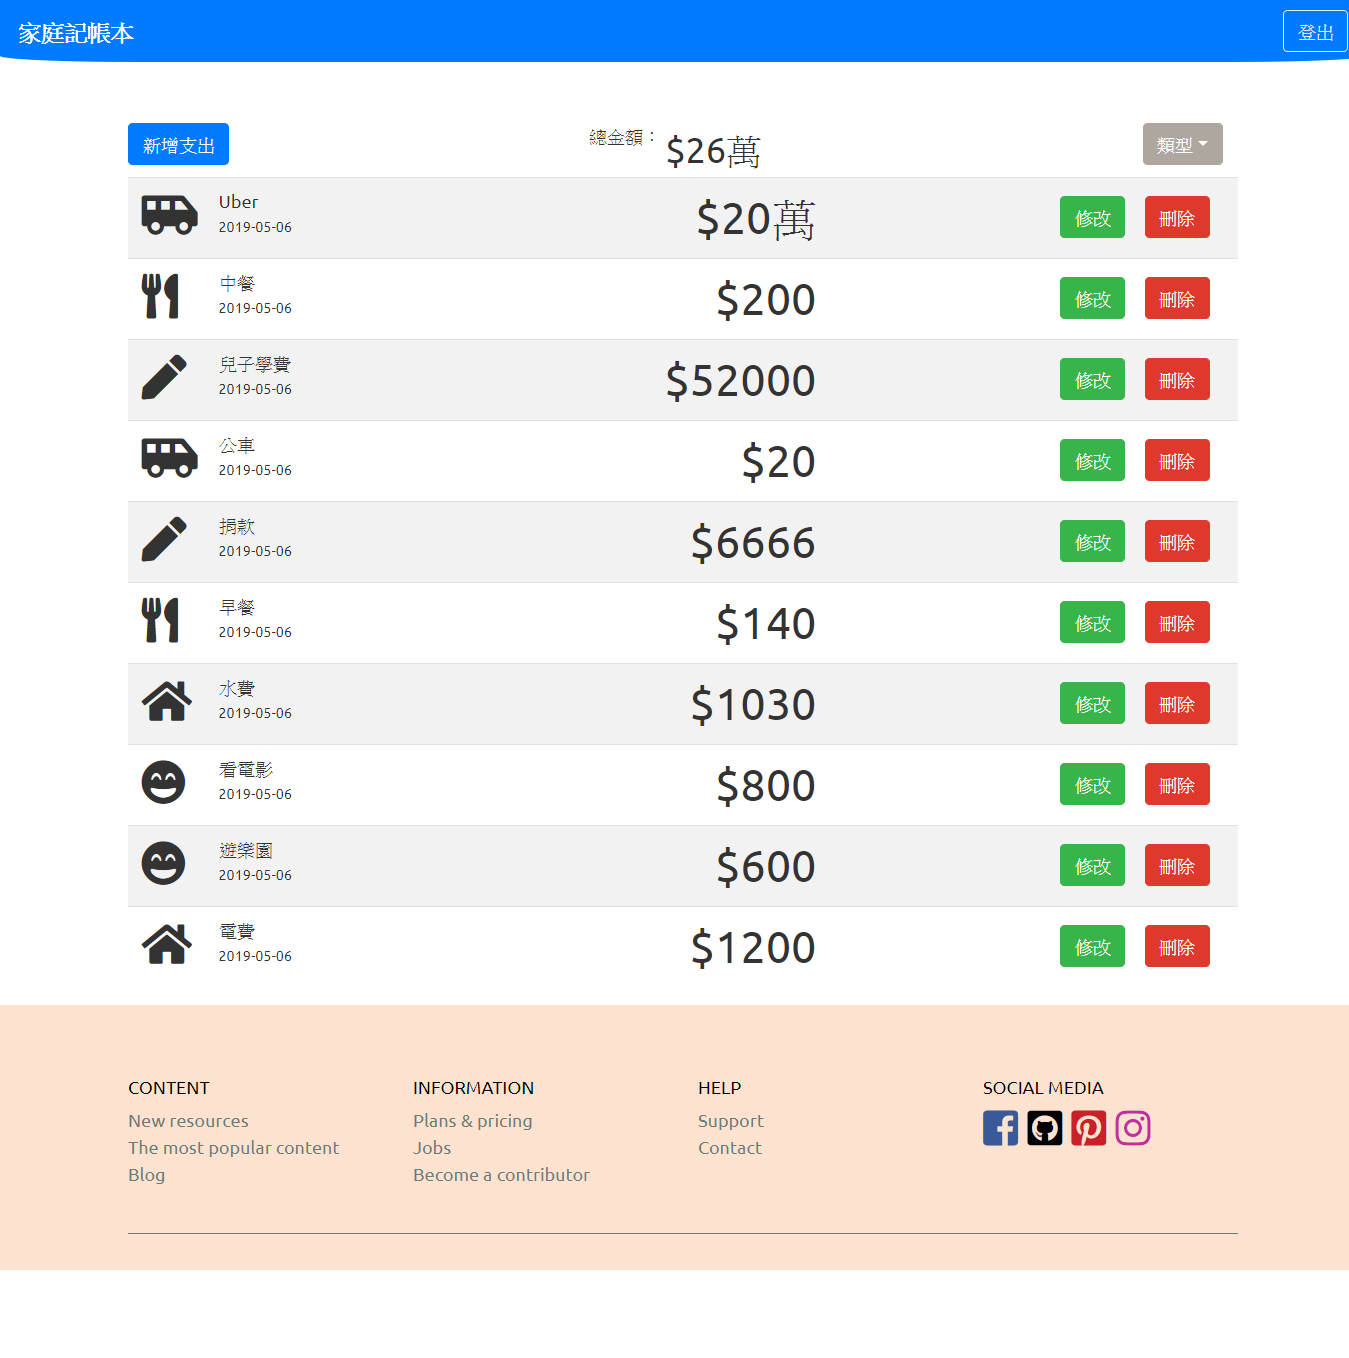
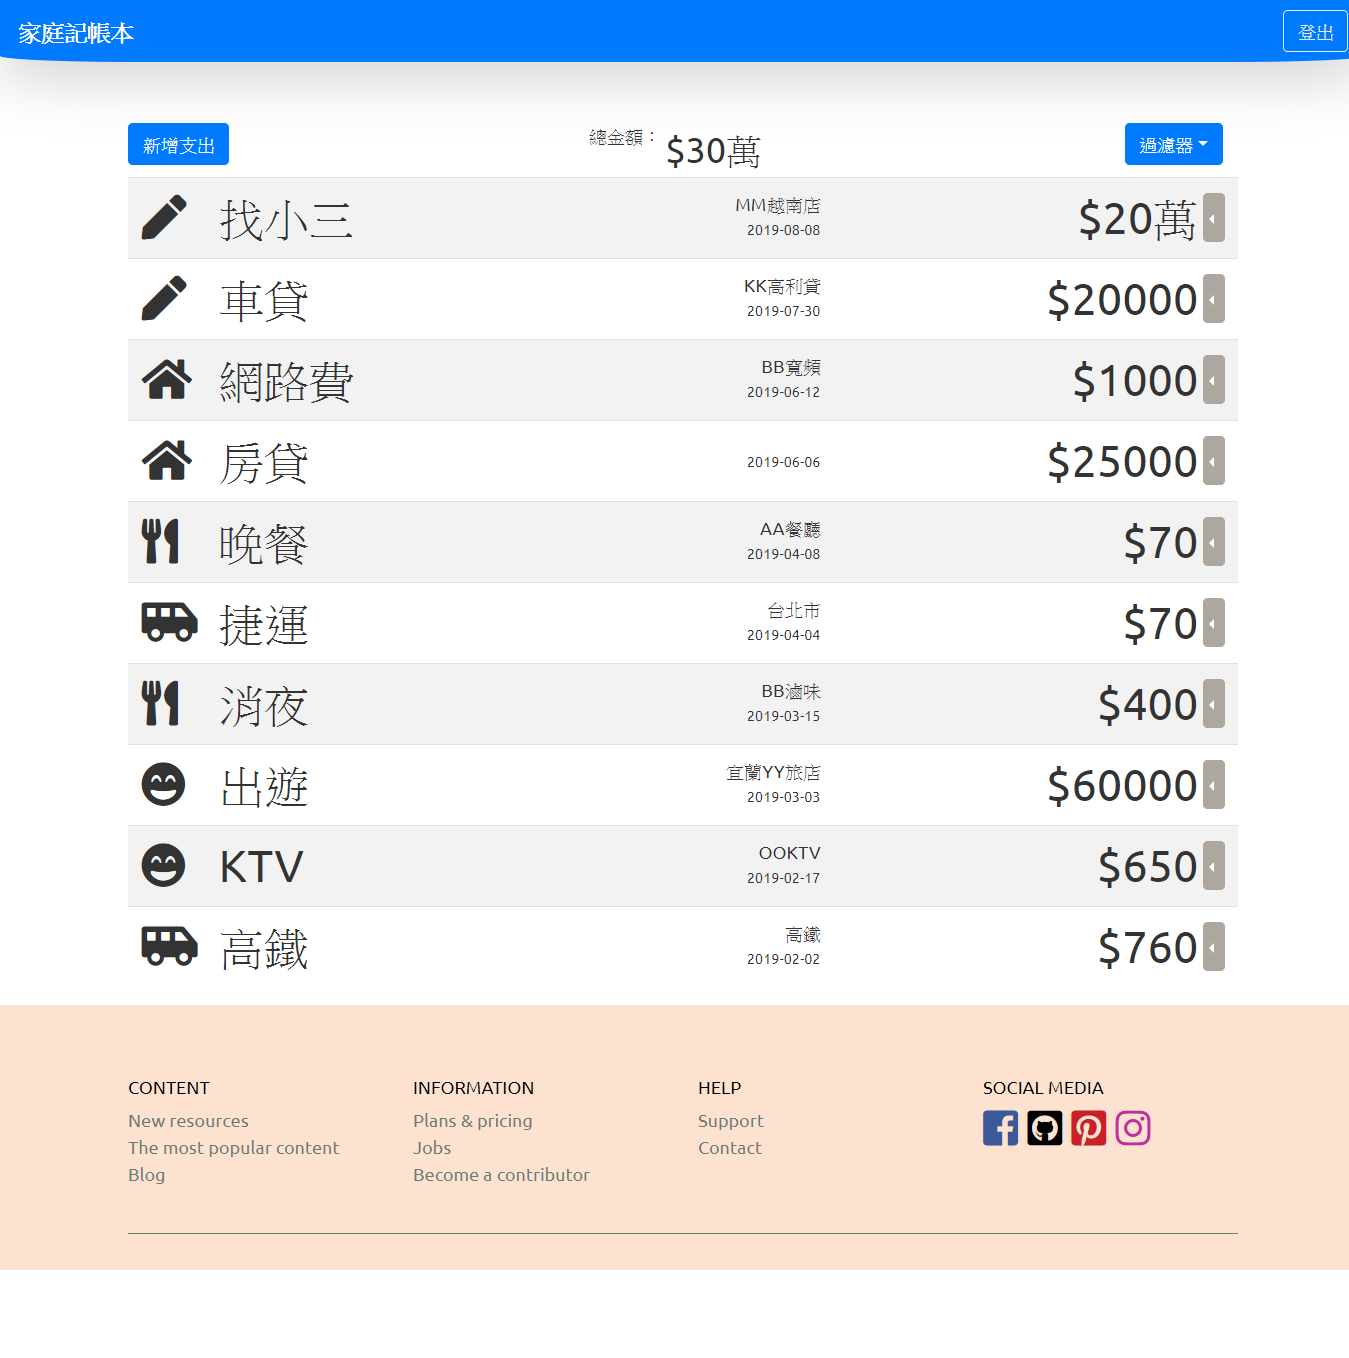
readme update

diff --git a/models/seeds/seeder.js b/models/seeds/seeder.js
@@ -4,7 +4,7 @@ const User = require('../user')
 const record = require('./recods.json')
 const bcrypt = require('bcryptjs')
 
-mongoose.connect(process.env.MONGODB_URI || 'mongodb://localhost/record', { useNewUrlParser: true, useCreateIndex: true })
+mongoose.connect(process.env.MONGODB_URI || 'mongodb://heroku_xt8qncz9:98df8d4g8ftnao4jabvnqo8es5@ds157818.mlab.com:57818/heroku_xt8qncz9', { useNewUrlParser: true, useCreateIndex: true })
 
 const db = mongoose.connection
 const userList = [{

diff --git a/README.md b/README.md
@@ -7,12 +7,11 @@
 2.  使用者可以使用自己的Facebook帳號登入
 3.  使用者可以輸入「名稱」、「類別」、「日期」 與「金額 」，建立記帳清單
 4.  使用者可以瀏覽全部的記帳清單
-5.  使用者可以搜尋餐廳名字
-6.  使用者可以新增一筆帳單
-7.  使用者可以刪除一筆帳單
-8.  使用者可以修改一筆帳單資訊
-9.  使用者可以使用分類顯示
-10. 使用者可以看見總額
+5.  使用者可以新增一筆帳單
+6.  使用者可以刪除一筆帳單
+7.  使用者可以修改一筆帳單資訊
+8.  使用者可以使用「年」、「月」、「日」 與「類型」顯示
+9.  使用者可以看見總額
 
 ## 安裝環境
 
